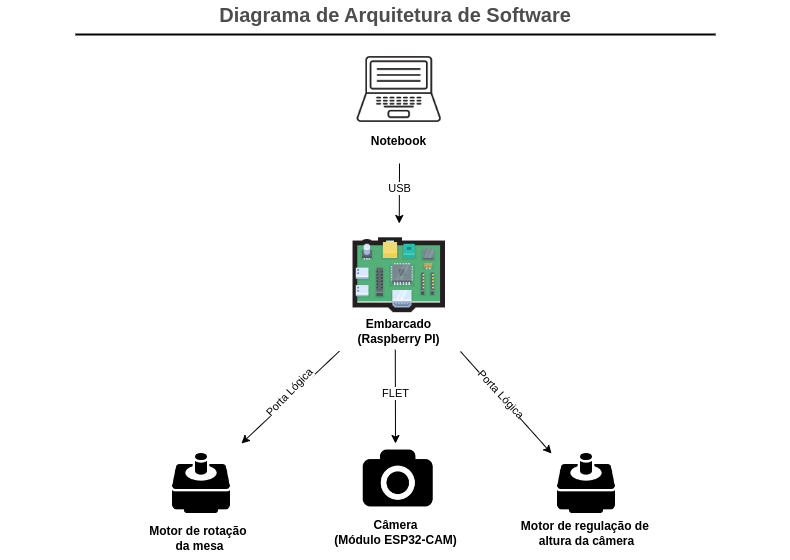
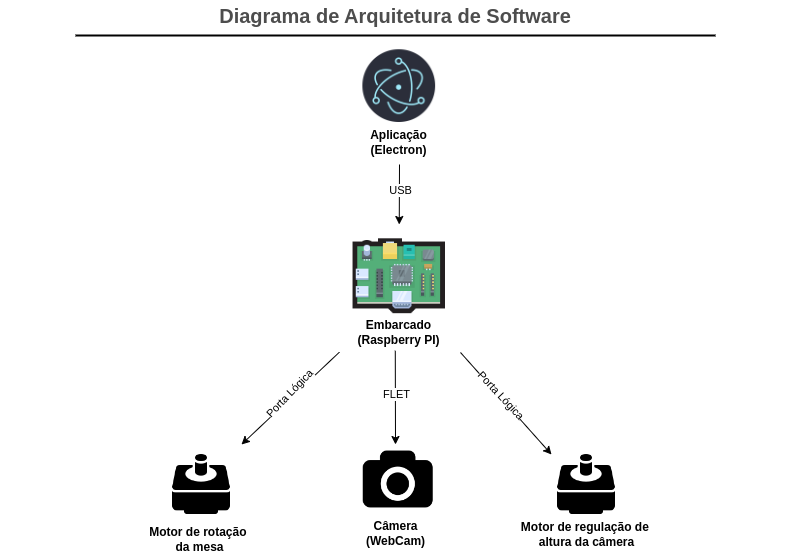
atualização do diagrama de software e redigido texto de explicação dos componentes

diff --git a/docs/geral/arquiteturaSoftware.md b/docs/geral/arquiteturaSoftware.md
@@ -1,7 +1,15 @@
 
 # Arquitetura do Subsistema de Software
 
-A arquitetura de software define a comunicação entre todos os componentes do sistema, O esquema abaixo elenca todos os elementos da solução e a comunicação entre eles.
+A arquitetura de software está dividida nos seguintes componentes:
+
+- Aplicação: Desenvolvida em Electron, cuida de toda a interação com usuário e sinais para comunicação com o embarcado
+- Embarcado: Usando uma Raspberry PI, ela faz a comunicação com os elementos utilizados na fotogrametria;
+- Câmera: WebCam irá tirar todas as fotos do item a ser escaneado;
+- Motor de rotação: Irá girar a mesa onde o item está posicionado, possibilitanto os vários ângulos para reconstrução 3D;
+- Motor de regulação de altura: Irá possibilitar a regulação da altura da câmera, assim possibitando uma melhor leitura de itens de diversos tamanhos.
+
+A relação entre os componentes está elencada no diagrama abaixo:
 
 ## Diagrama de arquitetura de software 
 
